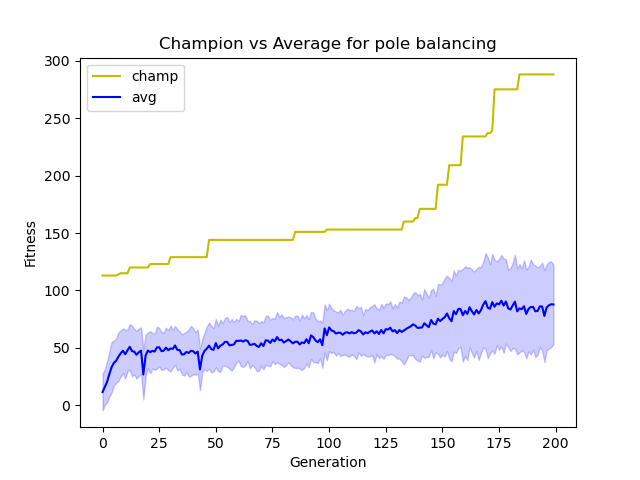
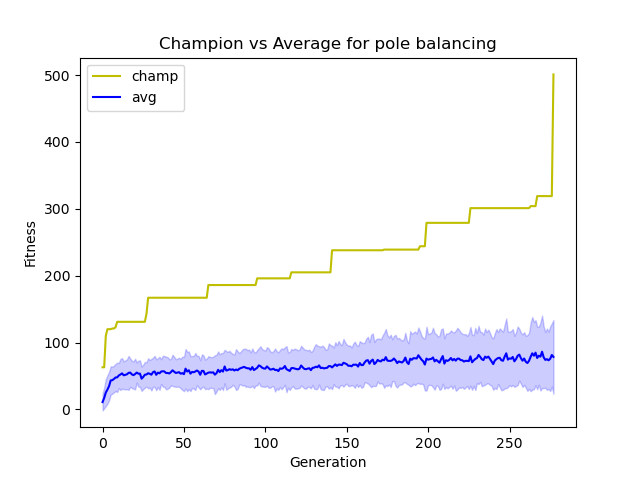
update 2 in `double_pole_balancing.py`

diff --git a/double_pole_balancing/double_pole_balancing.py b/double_pole_balancing/double_pole_balancing.py
@@ -59,9 +59,9 @@ def check_game_over(angle, angle1, cart_pos, bound=pi / 6):
 
 
 human_plays = False
-visualise = True  # can't be False if human_plays is True
+visualise = False  # can't be False if human_plays is True
 decision_frequency = 20  # how often will net be asked for decision(must be int)
-replay = True
+replay = False
 
 global running
 global cart_speed
@@ -71,6 +71,7 @@ r = 30  # border parameter
 
 
 def main():
+    passed_epochs = 0
     iterations = 0
     if replay:
         epochs = 1
@@ -89,6 +90,7 @@ def main():
         printProgressBar(0, epochs, prefix='Progress:', suffix='Complete', length=50)
 
     for i in range(epochs):
+        passed_epochs += 1
         observed_fitness = []
         # sys.stdout.write("\r---------------------- EPOCH:" + str(i))
         if visualise:
@@ -148,6 +150,8 @@ def main():
                         # print(cart_speed)
 
                         organism.fitness += 1
+                        if organism.fitness > 500:
+                            break
 
                     count += 1
 
@@ -187,6 +191,8 @@ def main():
             std_fitness.append(np.std(observed_fitness))
             population.update_champion()
             champion_fitness.append(-population.champion.fitness)
+            if population.champion.fitness < -500:
+                break
 
             population.create_species()
             # print(len(population.species))
@@ -203,7 +209,7 @@ def main():
         average_fitness = np.array(average_fitness)
         std_fitness = np.array(std_fitness)
 
-        x = [i for i in range(epochs)]
+        x = [i for i in range(passed_epochs)]
         plt.plot(x, champion_fitness, color='y', label='champ')
 
         plt.plot(x, average_fitness, color='b', label='avg')
@@ -216,13 +222,13 @@ def main():
         plt.legend()
         plt.show()
 
-        plt.title("Defeat causes in pole balancing")
-        plt.xlabel("Generation")
-        plt.ylabel("Number")
-        plt.plot(x, defeat_cause[0], color='y', label='angle out')
-        plt.plot(x, defeat_cause[1], color='b', label='field out')
-        plt.legend()
-        plt.show()
+        # plt.title("Defeat causes in pole balancing")
+        # plt.xlabel("Generation")
+        # plt.ylabel("Number")
+        # plt.plot(x, defeat_cause[0], color='y', label='angle out')
+        # plt.plot(x, defeat_cause[1], color='b', label='field out')
+        # plt.legend()
+        # plt.show()
 
         population.champion.save("dpb_champ_ver2.json")
 

diff --git a/neat/config.py b/neat/config.py
@@ -7,7 +7,7 @@ DISABLE_GENE_PROBABILITY = 0.75  # default 0.75
 # mutations parameters
 MUTATE_WEIGHT_PROBABILITY = 0.8
 RESET_WEIGHT_PROBABILITY = 0.1
-ADD_NODE_PROBABILITY = 0.001
+ADD_NODE_PROBABILITY = 0.0005
 ADD_CONNECTION_PROBABILITY = 0.002
 CROSSOVER_PROBABILITY = 0.75
 
@@ -35,6 +35,6 @@ OUTPUTS_NUM = 1  # can have values 1 or 2 only
 DECISION_THRESHOLD = 0  # used when OUTPUTS_NUM == 1
 
 # main algorithm parameters
-EPOCHS = 200
+EPOCHS = 300
 ORGANISMS_NUM = 150  # cardinality of the population
 TYPE = 1  # used for double pole balancing task when OUTPUTS_NUM == 1(Note: ACTIVATION_FUNCTION must be tanh then)
